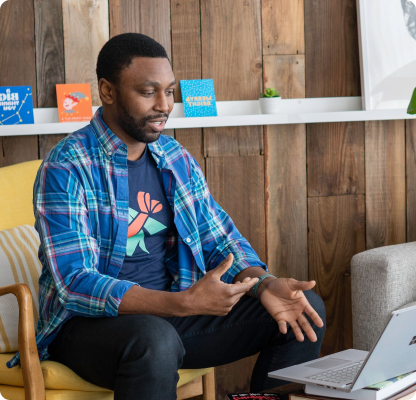
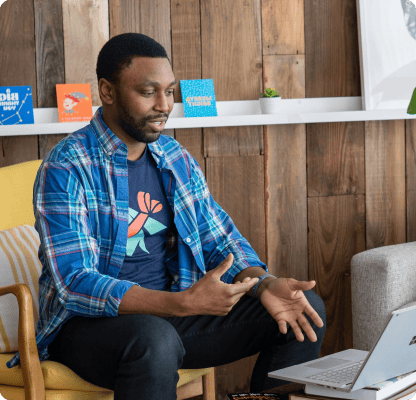
Optimize images for better performance

diff --git a/src/components/hero/Header.jsx b/src/components/hero/Header.jsx
@@ -12,7 +12,10 @@ export const Header = () => {
 
   return (
     <header>
-      <img className="logo" src="/Logo.svg" alt="logo"/>
+      <h1>
+        <img className="logo" src="/Logo.svg" alt="logo"/>
+        JetPay
+      </h1>
       <div className={`navigation ${isMenuOpen ? 'active' : ''}`}>
         <nav className="headerNavs">
           <a>Home</a>

diff --git a/src/App.css b/src/App.css
@@ -305,7 +305,7 @@ nav{
   height: 100%;      
   object-fit: cover; 
   object-position: bottom;
-  z-index: -1;       /* sit behind other content */
+  z-index: -1;      
 }
 
 .background_2{
